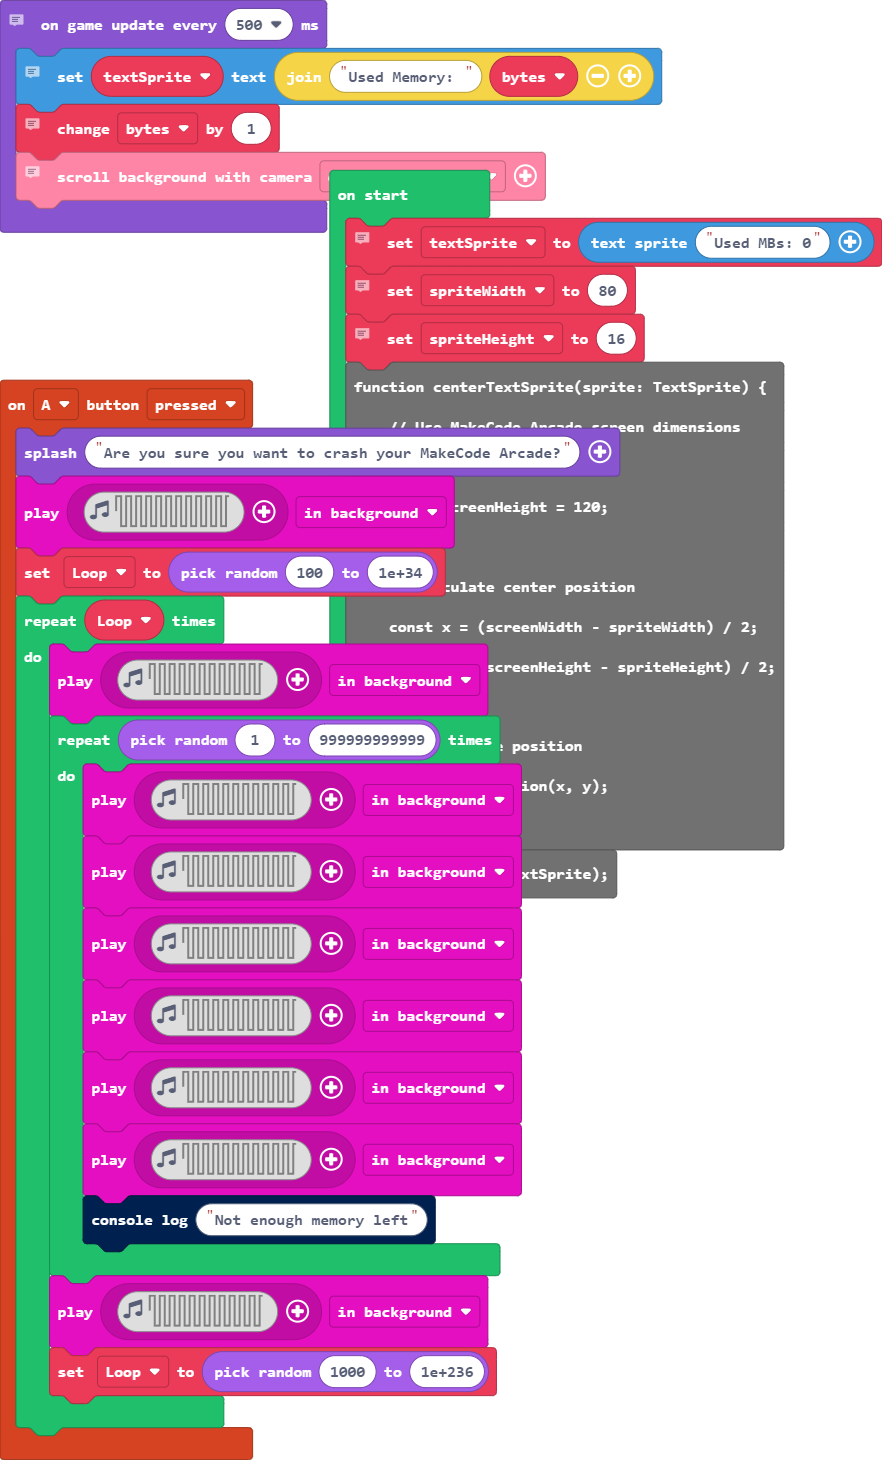
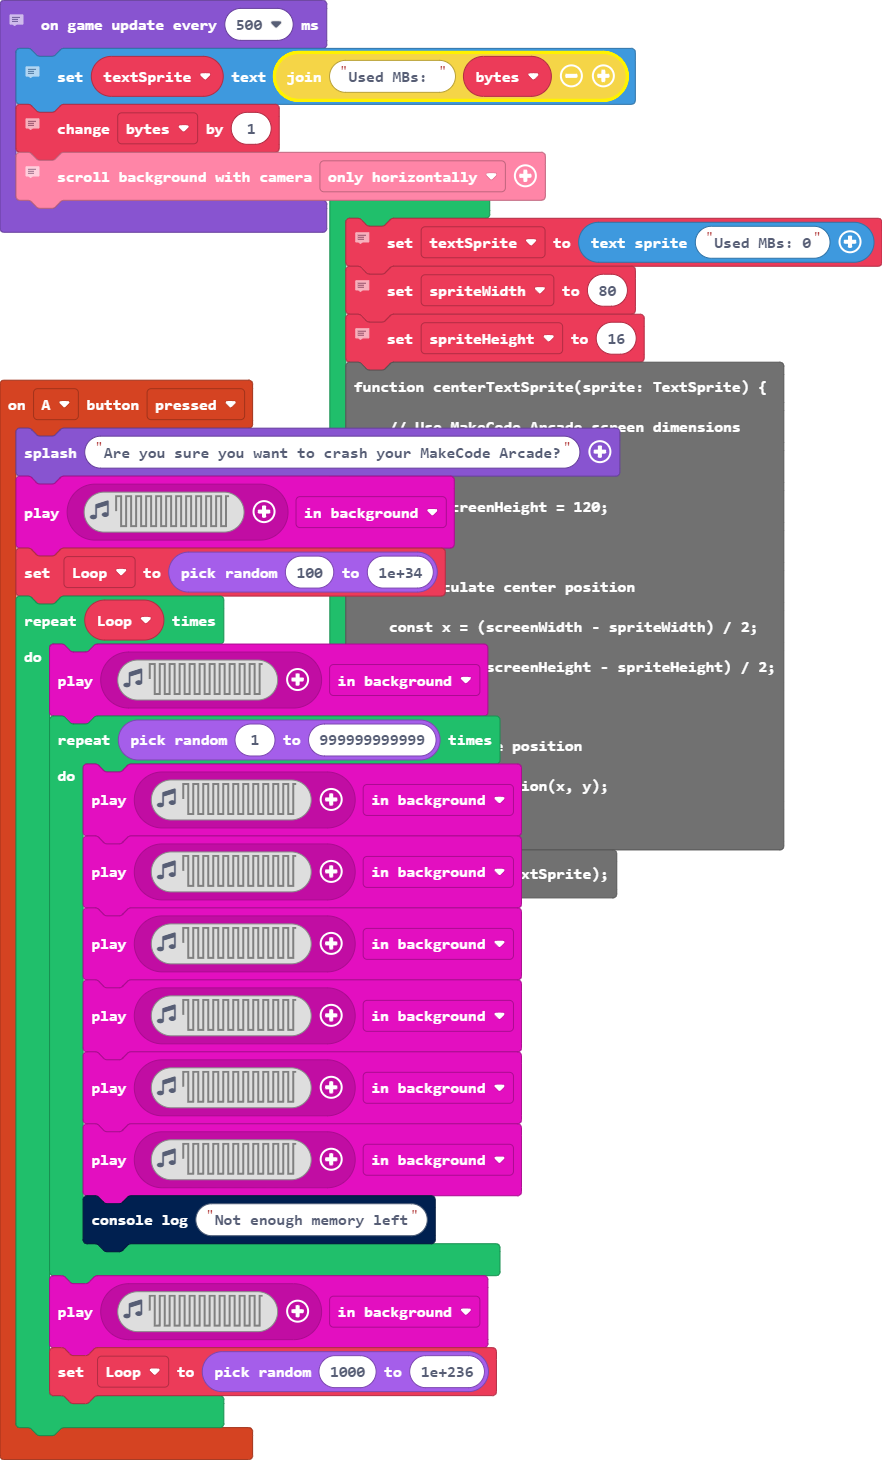
Parity between startup and after boot.

Changed region(s): [[0.3673, 0.0308, 0.7653, 0.1541], [0.3061, 0.0308, 0.3367, 0.0616]]

diff --git a/main.ts b/main.ts
@@ -45,7 +45,7 @@ centerTextSprite(textSprite);
 // Update text sprite every 500 ms
 game.onUpdateInterval(500, function () {
     // Update the text of the existing sprite
-    textSprite.setText("Used Memory: " + bytes)
+    textSprite.setText("Used MBs: " + bytes)
     // Simulate memory usage
     bytes += 1
     // Optional: Scroll background if necessary
